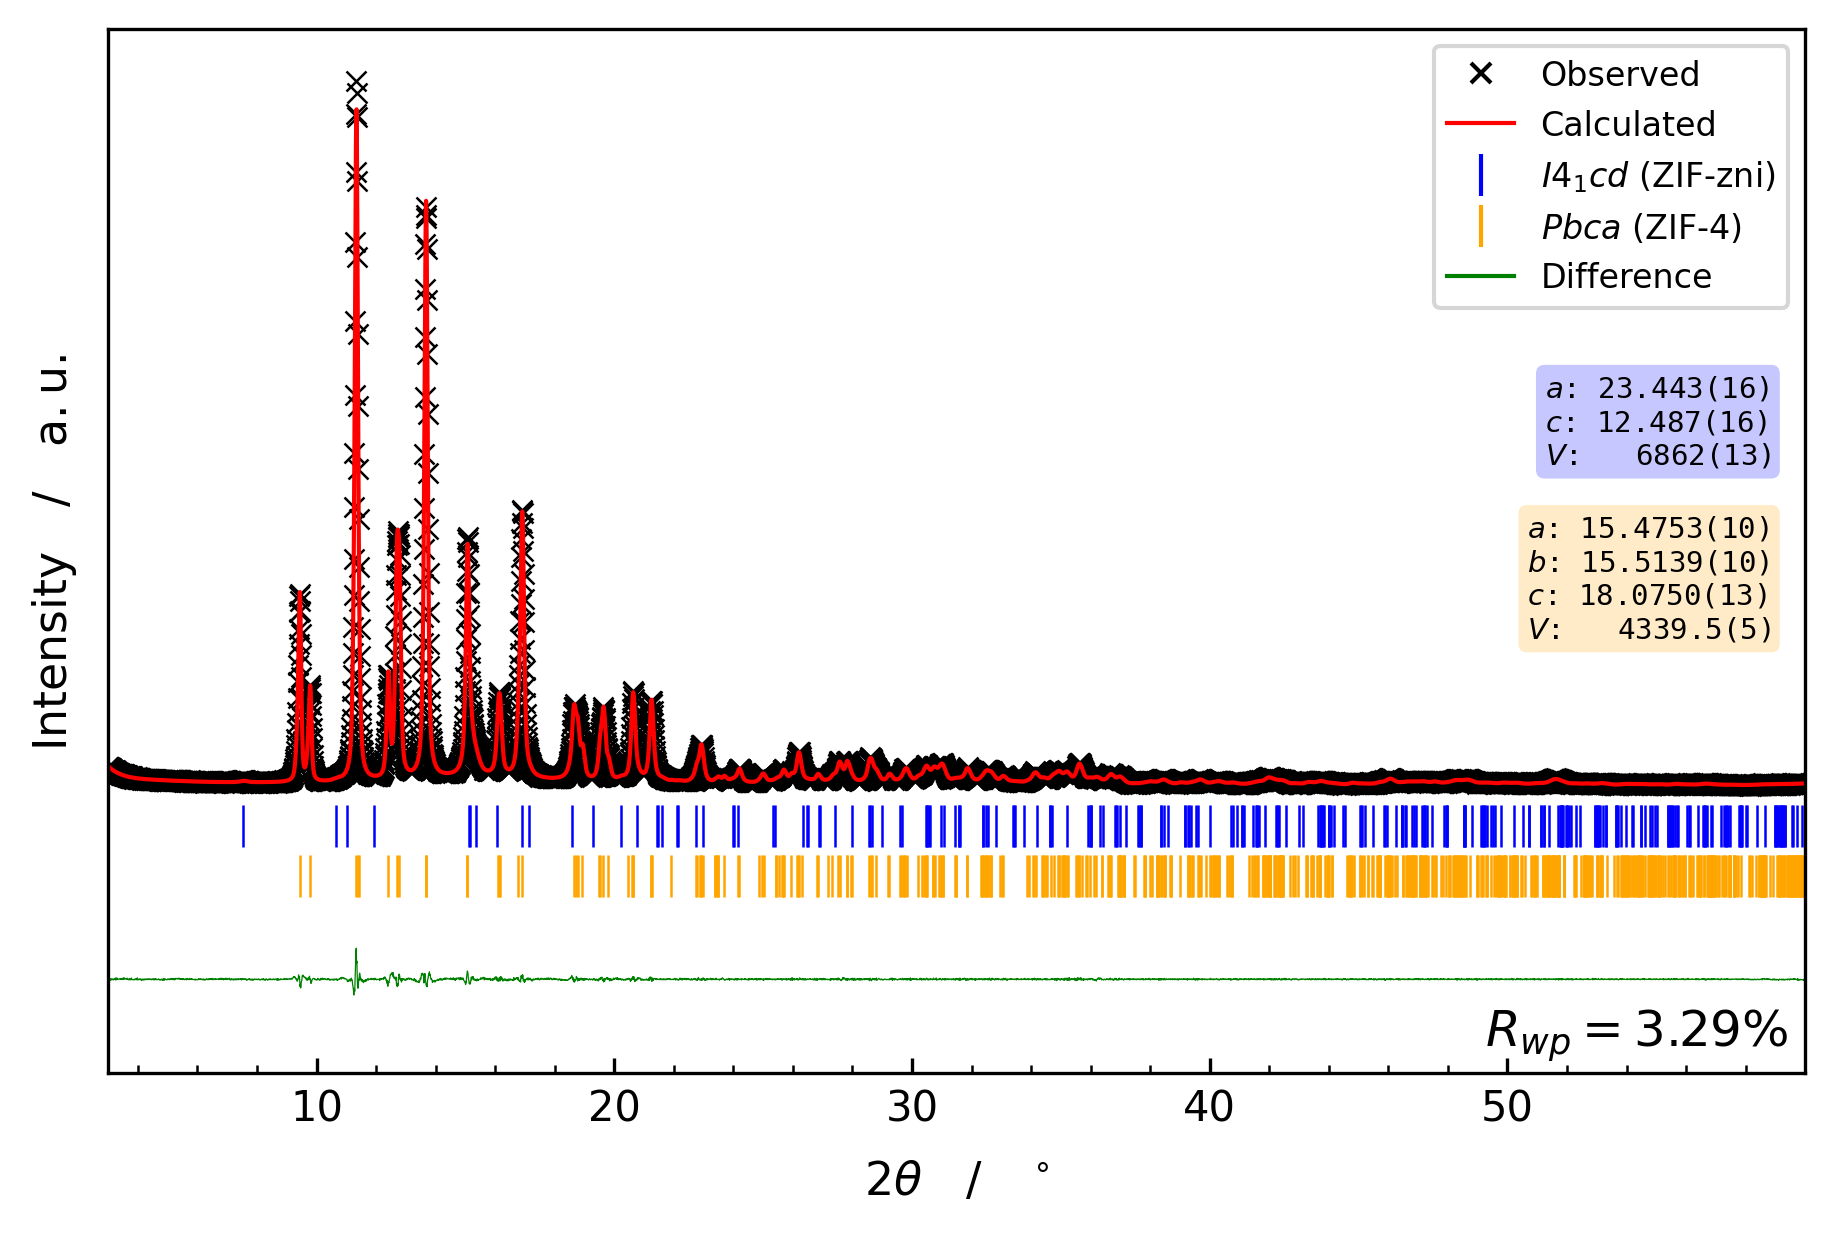
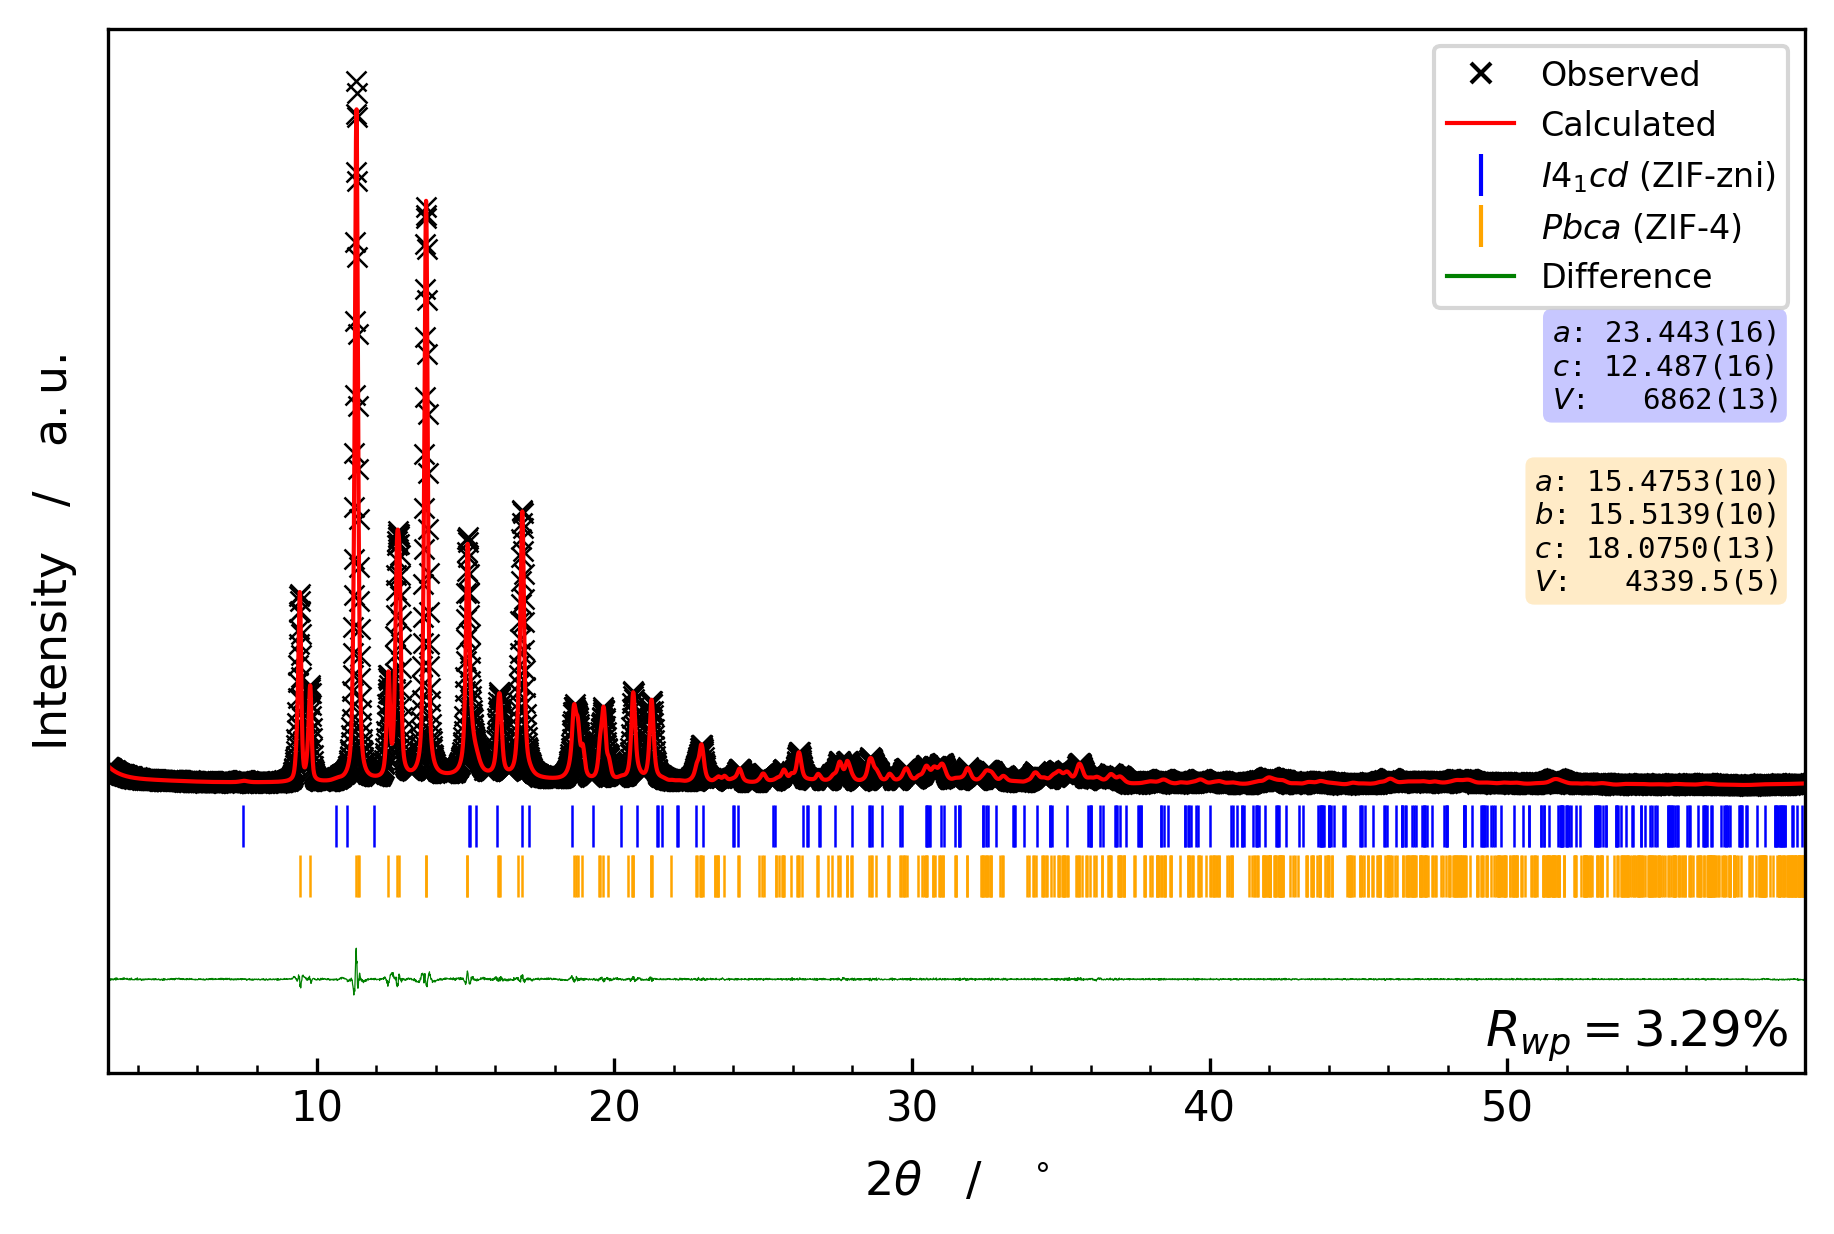
Adaptive unit-cell box layout: render-measured, packed under the legend
The box text is sized in points while positions are in axes-fraction
coordinates, so a one-shot layout looked different in the resizable
interactive window than in the fixed-size saved file. Box placement is now
measured against the live renderer and recomputed on every resize, so the two
agree.

Boxes pack tightly under the legend and adapt to the space above the data,
following a fixed hierarchy:
- single right-aligned column at the default font;
- else a side-by-side row;
- else shrink the font (retrying column then row) down to box_fontsize_min;
- else accept overlap with the least-intrusive candidate.

Fit is judged against the observed + calculated envelope under the box
block (computed once via transLimits, which is figure-size independent),
keeping box_data_clearance above it.

New tunables: box_fontsize_min, box_col_gap, box_legend_gap,
box_data_clearance. README updated; screenshot regenerated.

Changed region(s): [[0.8081, 0.2464, 0.9945, 0.5543]]

diff --git a/plot_pawley.py b/plot_pawley.py
@@ -61,11 +61,15 @@ settings = {
 	'diff_shift_factor': 0.8,       # Max fraction of the difference band the curve may occupy.
 	                                # If the natural amplitude would exceed this, the band auto-expands
 	                                # so the curve fits with (1 - diff_shift_factor) of visual padding.
-	'box_y_top': 0.67,              # Max ceiling height for the first info box
-	'box_x': 0.98,                  # Right-edge x-position (axes coords) for info boxes
-	'box_fontsize': 7,              # Font size (pt) for unit-cell info box text
+	'box_y_top': 0.67,              # Fallback ceiling for the first box when no legend is present
+	'box_x': 0.98,                  # Fallback right-edge x-position (axes coords) when no legend
+	'box_fontsize': 7,              # Default / largest font size (pt) for unit-cell info box text
+	'box_fontsize_min': 5,          # Smallest font (pt) the layout will shrink to before accepting overlap
 	'box_pad': 0.3,                 # Padding (in fontsize units) inside the rounded info box
-	'box_gap': 0.01,                # Vertical gap (axes coords) between stacked info boxes
+	'box_gap': 0.01,                # Vertical gap (axes coords) between vertically stacked boxes
+	'box_col_gap': 0.012,           # Horizontal gap (axes coords) between side-by-side boxes
+	'box_legend_gap': 0.015,        # Whitespace tolerance between the legend's bottom and the first box
+	'box_data_clearance': 0.02,     # Minimum clearance (axes coords) to keep above the data envelope
 	'pastel_weight': 0.78,          # Blend factor toward white for info-box background tinting
 	'multiply_label_y': 0.98,       # Axes-coord y for the 'x N' annotation from -m
 }
@@ -760,48 +764,180 @@ def add_quality(ax, info, show_all=False):
 	ax.text(.99, .01, text, ha='right', va='bottom', size=12, style='italic', transform=ax.transAxes)
 
 
+def _renderer(fig):
+	"""Best-effort renderer fetch that works across the Agg-family backends."""
+	try:
+		return fig.canvas.get_renderer()
+	except AttributeError:
+		fig.canvas.draw()
+		return fig.canvas.get_renderer()
+
+
+def _frac_bbox(artist, ax, renderer):
+	"""Window extent of an artist (its rounded bbox patch, if any) in axes-fraction coords."""
+	getter = getattr(artist, 'get_bbox_patch', None)
+	target = getter() if getter and getter() is not None else artist
+	bb = target.get_window_extent(renderer)
+	(x0, y0), (x1, y1) = ax.transAxes.inverted().transform([(bb.x0, bb.y0), (bb.x1, bb.y1)])
+	return x0, y0, x1, y1
+
+
+def _data_envelope_frac(ax):
+	"""The observed + calculated traces expressed in axes-fraction coordinates.
+	transLimits maps data → axes fraction purely from the view limits, so the result
+	is independent of figure size and can be computed once."""
+	chunks = []
+	for ln in ax.lines[:2]:  # plot order: [0] observed, [1] calculated
+		xd = np.asarray(ln.get_xdata(), dtype=float)
+		yd = np.asarray(ln.get_ydata(), dtype=float)
+		if xd.size:
+			chunks.append(ax.transLimits.transform(np.column_stack([xd, yd])))
+	return np.vstack(chunks) if chunks else np.empty((0, 2))
+
+
+def _envelope_ceiling(env, x_left, x_right):
+	"""Highest data y-fraction within the axes-fraction x-span [x_left, x_right]."""
+	if env.size == 0:
+		return 0.0
+	mask = (env[:, 0] >= x_left) & (env[:, 0] <= x_right)
+	return float(env[mask, 1].max()) if mask.any() else 0.0
+
+
+def _measure_boxes(boxes, fontsize, ax, fig):
+	"""Set all boxes to `fontsize`, draw once, and return per-box
+	(width, height, off_right, off_top) in axes fraction. The offsets are the gap
+	between the text anchor and the patch's right/top edges, so a caller can place
+	the patch's corner exactly by anchoring at (target - offset). All four values
+	depend only on the font size and the figure's physical size, not on position."""
+	for b in boxes:
+		b.set_fontsize(fontsize)
+	fig.canvas.draw()
+	renderer = _renderer(fig)
+	dims = []
+	for b in boxes:
+		x0, y0, x1, y1 = _frac_bbox(b, ax, renderer)
+		ax_x, ax_y = b.get_position()
+		dims.append((x1 - x0, y1 - y0, x1 - ax_x, y1 - ax_y))
+	return dims
+
+
+def _apply_vertical(boxes, dims, top, right, vgap):
+	"""Right-aligned single column, stacked downward from `top`."""
+	y = top
+	for b, (w, h, off_r, off_t) in zip(boxes, dims):
+		b.set_position((right - off_r, y - off_t))
+		y -= h + vgap
+
+
+def _apply_horizontal(boxes, dims, top, right, hgap):
+	"""Right-aligned single row, top edges level with `top`."""
+	r = right
+	for b, (w, h, off_r, off_t) in zip(boxes, dims):
+		b.set_position((r - off_r, top - off_t))
+		r -= w + hgap
+
+
 def add_unit_cell_boxes(ax, phases_cell_info, phase_colors, x=settings['box_x']):
-	"""Plots up to two info boxes stacked top-down, colored to match their respective Bragg reflections.
-	phase_colors: list of color strings in the same order as phases_cell_info entries."""
+	"""Place one info box per phase, coloured to match its Bragg reflections, packed
+	tightly under the legend. The arrangement adapts to the space actually available
+	between the legend and the plotted data, following this hierarchy:
+
+	  1. vertical stack (one column) at the default font size;
+	  2. else a horizontal row (side by side) at the default font size;
+	  3. else shrink the font (retrying vertical, then horizontal) down to
+	     `box_fontsize_min`;
+	  4. else accept overlap, using whichever candidate descends least into the data.
+
+	The layout is measured against the live renderer and recomputed on every resize,
+	so the interactive window and the saved file agree regardless of window size."""
 	if not phases_cell_info:
 		return
+	fig = ax.figure
 
-	current_y = settings['box_y_top']
-
+	# Build the text artists once; positions and font size are set later by relayout.
+	boxes = []
 	for idx, (sg_num, cell_info) in enumerate(phases_cell_info):
 		if not cell_info:
 			continue
+		color = phase_colors[idx] if idx < len(phase_colors) \
+			else settings['2Th_Ip_colors'][idx % len(settings['2Th_Ip_colors'])]
+		max_val_len = max(len(mv + brk) for _, mv, brk in cell_info)
+		lines = [f"${lbl}$: {(mv + brk):>{max_val_len}}" for lbl, mv, brk in cell_info]
+		boxes.append(ax.text(
+			settings['box_x'], settings['box_y_top'], "\n".join(lines),
+			transform=ax.transAxes, family='monospace',
+			fontsize=settings['box_fontsize'], ha='right', va='top',
+			multialignment='left',
+			bbox=dict(boxstyle=f"round,pad={settings['box_pad']}",
+					  facecolor=to_pastel(color), edgecolor='none')))
+	if not boxes:
+		return
 
-		assigned_color = phase_colors[idx] if idx < len(phase_colors) else settings['2Th_Ip_colors'][idx % len(settings['2Th_Ip_colors'])]
-		pastel_bg = to_pastel(assigned_color)
+	env = _data_envelope_frac(ax)
+	clearance = settings['box_data_clearance']
+	vgap = settings['box_gap']
+	hgap = settings['box_col_gap']
 
-		max_val_len = max(len(main_val + brk) for _, main_val, brk in cell_info)
-		
-		lines = []
-		for lbl, main_val, brk in cell_info:
-			val_str = main_val + brk
-			padded_val = f"{val_str:>{max_val_len}}"
-			lines.append(f"${lbl}$: {padded_val}")
-		
-		box_text = "\n".join(lines)
-		
-		t = ax.text(x, current_y, box_text,
-					transform=ax.transAxes,
-					family='monospace',
-					fontsize=settings['box_fontsize'],
-					ha='right',
-					va='top',
-					multialignment='left',
-					bbox=dict(boxstyle=f"round,pad={settings['box_pad']}",
-							  facecolor=pastel_bg,
-							  edgecolor='none'))
+	def relayout():
+		renderer = _renderer(fig)
 
-		ax.figure.canvas.draw()
-		bbox_pixels = t.get_bbox_patch().get_window_extent()
-		bbox_axes = ax.transAxes.inverted().transform(bbox_pixels)
+		# Anchor right below the legend; fall back to fixed coords if it's absent.
+		leg = ax.get_legend()
+		if leg is not None:
+			lx0, ly0, lx1, ly1 = _frac_bbox(leg, ax, renderer)
+			top, right = ly0 - settings['box_legend_gap'], lx1
+		else:
+			top, right = settings['box_y_top'], settings['box_x']
 
-		# Advance layout engine floor down for cascading stack position
-		current_y = bbox_axes[0][1] - settings['box_gap']
+		best = None  # (arrangement, fontsize, block_bottom) — least-intrusive fallback
+		for fs in range(settings['box_fontsize'], settings['box_fontsize_min'] - 1, -1):
+			dims = _measure_boxes(boxes, fs, ax, fig)
+			ws = [d[0] for d in dims]
+			hs = [d[1] for d in dims]
+
+			# Vertical: one right-aligned column.
+			v_left = right - max(ws)
+			v_bottom = top - (sum(hs) + vgap * (len(boxes) - 1))
+			v_fits = v_left >= 0 and v_bottom >= _envelope_ceiling(env, v_left, right) + clearance
+
+			# Horizontal: one right-aligned row.
+			h_left = right - (sum(ws) + hgap * (len(boxes) - 1))
+			h_bottom = top - max(hs)
+			h_fits = h_left >= 0 and h_bottom >= _envelope_ceiling(env, h_left, right) + clearance
+
+			if v_fits:
+				_apply_vertical(boxes, dims, top, right, vgap)
+				return
+			if h_fits:
+				_apply_horizontal(boxes, dims, top, right, hgap)
+				return
+
+			for arrange, bottom in (('V', v_bottom), ('H', h_bottom)):
+				if best is None or bottom > best[2]:
+					best = (arrange, fs, bottom)
+
+		# Nothing fit at any size — accept overlap with the least-descending candidate.
+		arrange, fs, _ = best
+		dims = _measure_boxes(boxes, fs, ax, fig)
+		(_apply_vertical if arrange == 'V' else _apply_horizontal)(
+			boxes, dims, top, right, vgap if arrange == 'V' else hgap)
+
+	relayout()
+
+	# Re-pack when the interactive window is resized so the look stays consistent.
+	state = {'busy': False}
+
+	def _on_resize(event):
+		if state['busy']:
+			return
+		state['busy'] = True
+		try:
+			relayout()
+		finally:
+			state['busy'] = False
+		fig.canvas.draw_idle()
+
+	fig.canvas.mpl_connect('resize_event', _on_resize)
 
 # ==========================================
 # MAIN ROUTINE EXECUTION

diff --git a/README.md b/README.md
@@ -33,7 +33,7 @@ python plot_pawley.py -s -m ,30,5  -m 40,,3   # two multiplication ranges: start
 | Flag | Argument | Effect |
 |---|---|---|
 | `-s`, `--silent` | — | Write `<group>.<ext>` for each fit group (default `svg`, see `-x`); suppress the matplotlib window. |
-| `-c`, `--cell_info` | — | Add a rounded box per phase showing the refined unit-cell parameters and volume, coloured to match the phase's Bragg ticks. |
+| `-c`, `--cell_info` | — | Add a rounded box per phase showing the refined unit-cell parameters and volume, coloured to match the phase's Bragg ticks. Boxes pack tightly under the legend and adapt to the available space (see below). |
 | `-x`, `--extension` | `svg` \| `png` \| `pdf` \| … | Image format for `-s` output — anything matplotlib's `savefig` accepts. A leading dot is tolerated (`.png` ≡ `png`). Default: `svg`. |
 | `--qall` | — | Show all three fit-quality factors — R<sub>wp</sub>, R<sub>exp</sub>, and χ — on the bottom-right line. Without it, only the headline R<sub>wp</sub> is shown. |
 | `-m`, `--multiply` | `a,b,N` (repeatable) | Multiply the observed, calculated, and difference traces by `N` inside `2θ ∈ [a, b]`. Use `,b,N` or `a,,N` to clip to the data range on the open side. Boundaries are drawn as dashed vertical lines and labelled `× N`. |
@@ -45,6 +45,7 @@ python plot_pawley.py -s -m ,30,5  -m 40,,3   # two multiplication ranges: start
 - Lays out the data, Bragg tick rows, and difference curve in axes-coordinate fractions, so the relative band heights stay consistent regardless of intensity scale or amplitude multiplication.
 - Auto-expands the difference band when the curve amplitude would otherwise overflow into the tick rows.
 - Reads the fit-quality factors from the `.out` and prints the weighted profile R-factor R<sub>wp</sub> in the bottom-right corner by default; `--qall` shows R<sub>wp</sub>, R<sub>exp</sub>, and χ together.
+- Packs the unit-cell boxes (`-c`) tightly under the legend and adapts the arrangement to the space available above the data: it stacks them in a column, switches to a side-by-side row if the column won't fit, shrinks the font as a last resort, and recomputes on every window resize so the interactive view and the saved file match.
 - Tolerates missing metadata: if the `.out` file is absent the four core artists still plot; only the quality factor and cell-info boxes are skipped.
 
 ## Installation
@@ -112,6 +113,10 @@ Rounding follows the crystallographic "rule of 19": the bracketed esd is an inte
 
 If the difference curve's natural peak-to-trough amplitude would overflow `d_difference`, the band is auto-expanded just enough to fit it with `diff_shift_factor` (default 0.8) of visual padding. The curve's median is anchored exactly on the band centre.
 
+### Unit-cell box placement
+
+The box text is sized in points (a physical unit) while everything else is positioned in axes-fraction coordinates, so a box occupies a different fraction of the plot depending on the figure's physical size — which is why a naive one-shot layout looks different in the resizable interactive window than in the fixed-size saved file. `add_unit_cell_boxes()` instead measures the boxes against the live renderer and lays them out anchored just under the legend, following a fixed hierarchy: a single right-aligned **column** at the default font; failing that a side-by-side **row**; failing that the font is **shrunk** (retrying column then row) down to `box_fontsize_min`; and if even that overflows, the least-intrusive candidate is used and overlap is accepted. "Fit" is judged against the observed + calculated envelope under the box block (computed once via `transLimits`, which is figure-size independent), keeping `box_data_clearance` above it. A `resize_event` handler re-runs the whole layout whenever the window changes size, so the on-screen and saved figures agree.
+
 </details>
 
 ## Authorship and history
@@ -127,6 +132,7 @@ In May 2026 the script was **refactored and partially rewritten by Claude (Anthr
 - Axes-coordinate-based vertical layout (`stack_artists_vertically()`) — proportions stay consistent regardless of intensity scale, and the difference band auto-expands when its curve would otherwise overflow into the tick rows.
 - New `-m a,b,N` flag for selective intensity multiplication with auto-placed `× N` label and dashed boundary markers.
 - New `-c` flag for unit-cell info boxes, color-matched to tick colours and reordered to follow the legend's top-to-bottom phase order.
+- Adaptive unit-cell box placement: boxes pack tightly under the legend and fall back column → row → smaller font → accepted overlap depending on the space above the data, measured against the live renderer and recomputed on resize so the window and the saved file match.
 - New `-x <format>` flag to choose the saved image format (svg, png, pdf, …).
 - Fit-quality annotation now reads R<sub>wp</sub>, R<sub>exp</sub>, and χ from the `.out` and shows R<sub>wp</sub> as the headline figure by default; the new `--qall` flag prints all three on one line.
 - Graceful degradation: core artists (observed, calculated, ticks, difference) plot for every dataset; metadata-dependent elements (legend HM labels, quality factors, info boxes) silently downgrade or disappear when the `.out` is missing or the substance is unknown.
